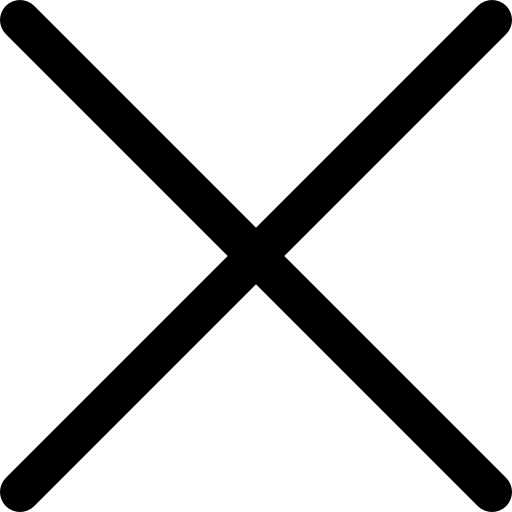
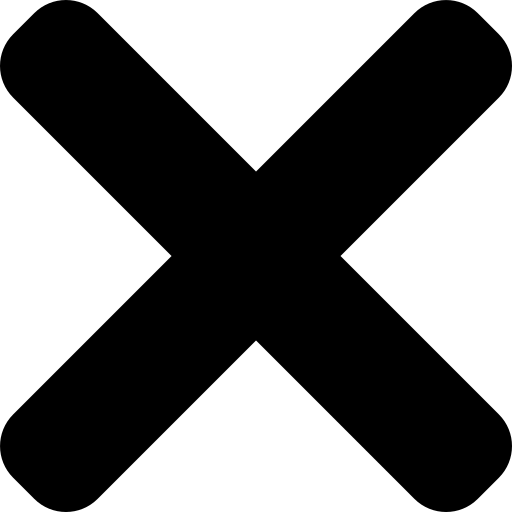
Resolved UI Issues
- Made window moveable
- Made title bar icons smaller

diff --git a/OpenBots.Agent.Client/MainWindow.xaml b/OpenBots.Agent.Client/MainWindow.xaml
@@ -5,54 +5,68 @@
         xmlns:mc="http://schemas.openxmlformats.org/markup-compatibility/2006"
         xmlns:local="clr-namespace:OpenBots.Agent.Client"
         mc:Ignorable="d"
-        Title="OpenBots Agent" Name="wndMain" Height="545" Width="488" Loaded="OnLoad" ResizeMode="NoResize" WindowStyle="None"
+        Title="OpenBots Agent" Name="wndMain" Height="530" Width="488" Loaded="OnLoad" ResizeMode="NoResize" WindowStyle="None"
         Unloaded="OnUnload" Initialized="OnInitialized" Closing="OnClosing" StateChanged="OnStateChanged" Closed="OnClosed" 
-        WindowStartupLocation="CenterScreen">
+        WindowStartupLocation="CenterScreen" BorderThickness="2" UseLayoutRounding="True">
     <Window.Resources>
+        <Style x:Key="GearImage" TargetType="{x:Type Image}">
+            <Setter Property="Source" Value="/resources/gear_gray.png"/>
+            <Setter Property="HorizontalAlignment" Value="Right"/>
+            <Setter Property="ToolTip" Value="Settings"/>
+            <Style.Triggers>
+                <Trigger Property="IsMouseOver" Value="True">
+                    <Setter Property="Source" Value="/resources/gear_black.png"/>
+                    <!--<Setter Property="BitmapEffect">
+                        <Setter.Value>
+                            <DropShadowBitmapEffect Color="LightGray" ShadowDepth="1" Direction="315" Opacity="0.4"></DropShadowBitmapEffect>
+                        </Setter.Value>
+                    </Setter>-->
+                </Trigger>
+            </Style.Triggers>
+        </Style>
         <Style x:Key="CloseImage" TargetType="{x:Type Image}">
-            <Setter Property="Source" Value="/resources/close_black.png"/>
-            <Setter Property="Height" Value="20"/>
+            <Setter Property="Source" Value="/resources/close_gray.png"/>
             <Setter Property="HorizontalAlignment" Value="Right"/>
             <Setter Property="ToolTip" Value="Minimize to System Tray"/>
             <Style.Triggers>
                 <Trigger Property="IsMouseOver" Value="True">
-                    <Setter Property="Source" Value="/resources/close_red.png"/>
-                </Trigger>
-            </Style.Triggers>
-        </Style>
-        <Style x:Key="GearImage" TargetType="{x:Type Image}">
-            <Setter Property="Source" Value="/resources/gear_hollow.png"/>
-            <Setter Property="Height" Value="25"/>
-            <Setter Property="HorizontalAlignment" Value="Right"/>
-            <Setter Property="ToolTip" Value="Setting"/>
-            <Style.Triggers>
-                <Trigger Property="IsMouseOver" Value="True">
-                    <Setter Property="Source" Value="/resources/gear_solid.png"/>
+                    <Setter Property="Source" Value="/resources/close_black.png"/>
                 </Trigger>
             </Style.Triggers>
         </Style>
     </Window.Resources>
+    <Window.BorderBrush>
+        <RadialGradientBrush>
+            <GradientStop Color="#FF020202"/>
+            <GradientStop Color="#FFD4D4D4" Offset="0.626"/>
+        </RadialGradientBrush>
+    </Window.BorderBrush>
     <Grid Name="mainGrid">
         <Grid.RowDefinitions>
-            <RowDefinition Height="37"/>
-            <RowDefinition Height="295"/>
+            <RowDefinition Height="30"/>
+            <RowDefinition Height="288"/>
             <RowDefinition Height="*"/>
         </Grid.RowDefinitions>
-        <StatusBar Name="CustomBar" Margin="5,3,5,0" Background="Transparent">
-            <Grid Name="grd_CustomMenuBar_Title" Margin="2,0,0,0">
+        <StatusBar Name="CustomBar" Margin="5,0,5,0" Background="Transparent" Grid.Row="0">
+            <Grid Name="grd_CustomMenuBar" Margin="2,0,0,0">
                 <Grid.ColumnDefinitions>
-                    <ColumnDefinition Width="25"/>
-                    <ColumnDefinition Width="150"/>
-                    <ColumnDefinition Width="295"/>
+                    <ColumnDefinition Width="420"/>
+                    <ColumnDefinition Width="*"/>
                 </Grid.ColumnDefinitions>
-                <Image Source="/resources/OpenBots.png" HorizontalAlignment="Left" Stretch="Uniform"/>
-                <Label Content="OpenBots Agent" Grid.Column="1" FontWeight="DemiBold" HorizontalAlignment="Left"/>
-                <Grid Name="grd_CustomMenuBar_Controls" Grid.Column="2" HorizontalAlignment="Right">
+                <Grid Name="grd_TitleBar" Grid.Column="0" MouseLeftButtonDown="OnMouseLeftButtonDown_TitleBar">
                     <Grid.ColumnDefinitions>
-                        <ColumnDefinition Width="40"/>
-                        <ColumnDefinition Width="25"/>
+                        <ColumnDefinition Width="20"/>
+                        <ColumnDefinition Width="*"/>
                     </Grid.ColumnDefinitions>
-                    <Image Name="img_settings" Style="{StaticResource GearImage}" Stretch="Uniform" Margin="3,0,10,0" MouseLeftButtonUp="OnClick_Settings">
+                    <Image Source="/resources/OpenBots.png" HorizontalAlignment="Left" Width="20" Height="20" Grid.Column="0"/>
+                    <Label Content="OpenBots Agent" FontSize="12" Width="400" HorizontalAlignment="Left" VerticalAlignment="Top" FontFamily="Calibri" Grid.Column="1"/>
+                </Grid>
+                <Grid Name="grd_CustomControls" HorizontalAlignment="Right" Grid.Column="1" Margin="0">
+                    <Grid.ColumnDefinitions>
+                        <ColumnDefinition Width="23"/>
+                        <ColumnDefinition Width="22"/>
+                    </Grid.ColumnDefinitions>
+                    <Image Name="img_settings" Style="{StaticResource GearImage}" RenderOptions.BitmapScalingMode="HighQuality" Height="19" MouseLeftButtonUp="OnClick_Settings" Grid.Column="0" Margin="0">
                         <Image.ContextMenu>
                             <ContextMenu>
                                 <MenuItem Header="Machine Info" Click="OnClick_MachineInfo"/>
@@ -61,11 +75,11 @@
                             </ContextMenu>
                         </Image.ContextMenu>
                     </Image>
-                    <Image Style="{StaticResource CloseImage}" Grid.Column="1" Margin="0,0,5,0" MouseLeftButtonDown="OnClick_Close" />
+                    <Image Style="{StaticResource CloseImage}" Height="15" Grid.Column="1" MouseLeftButtonDown="OnClick_Close" />
                 </Grid>
             </Grid>
         </StatusBar>
-        <GroupBox Header="Server Configuration" FontSize="14" Margin="10" BorderThickness="2,2,2,2" Grid.Row="1">
+        <GroupBox Header="Server Configuration" FontSize="14" Margin="10,5,10,10" BorderThickness="2,2,2,2" Grid.Row="1">
             <StackPanel x:Name="pnl_ServerConfiguration" Margin="0,10,0,0">
                 <Label Content="User Name" FontWeight="Bold" x:Name="lbl_Username"></Label>
                 <TextBox x:Name="txt_Username" FontSize="16" Margin="5,0,10,0" Height="29" VerticalContentAlignment="Center" TextChanged="OnTextChange_AgentUsername"/>

diff --git a/OpenBots.Agent.Client/Properties/Resources.Designer.cs b/OpenBots.Agent.Client/Properties/Resources.Designer.cs
@@ -73,9 +73,9 @@ namespace OpenBots.Agent.Client.Properties {
         /// <summary>
         ///   Looks up a localized resource of type System.Drawing.Bitmap.
         /// </summary>
-        public static System.Drawing.Bitmap close_red {
+        public static System.Drawing.Bitmap close_gray {
             get {
-                object obj = ResourceManager.GetObject("close_red", resourceCulture);
+                object obj = ResourceManager.GetObject("close_gray", resourceCulture);
                 return ((System.Drawing.Bitmap)(obj));
             }
         }
@@ -103,9 +103,9 @@ namespace OpenBots.Agent.Client.Properties {
         /// <summary>
         ///   Looks up a localized resource of type System.Drawing.Bitmap.
         /// </summary>
-        public static System.Drawing.Bitmap gear_hollow {
+        public static System.Drawing.Bitmap gear_black {
             get {
-                object obj = ResourceManager.GetObject("gear_hollow", resourceCulture);
+                object obj = ResourceManager.GetObject("gear_black", resourceCulture);
                 return ((System.Drawing.Bitmap)(obj));
             }
         }
@@ -113,9 +113,9 @@ namespace OpenBots.Agent.Client.Properties {
         /// <summary>
         ///   Looks up a localized resource of type System.Drawing.Bitmap.
         /// </summary>
-        public static System.Drawing.Bitmap gear_solid {
+        public static System.Drawing.Bitmap gear_gray {
             get {
-                object obj = ResourceManager.GetObject("gear_solid", resourceCulture);
+                object obj = ResourceManager.GetObject("gear_gray", resourceCulture);
                 return ((System.Drawing.Bitmap)(obj));
             }
         }

diff --git a/OpenBots.Agent.Client/MainWindow.xaml.cs b/OpenBots.Agent.Client/MainWindow.xaml.cs
@@ -123,6 +123,11 @@ namespace OpenBots.Agent.Client
             {
             }
         }
+        private void OnMouseLeftButtonDown_TitleBar(object sender, System.Windows.Input.MouseButtonEventArgs e)
+        {
+            base.OnMouseLeftButtonDown(e);
+            this.DragMove();
+        }
         private void LoadConnectionSettings()
         {
             // Load settings from "OpenBots.Settings" (Config File)
@@ -730,6 +735,7 @@ namespace OpenBots.Agent.Client
         {
             this.Close();
         }
+
         #endregion
     }
 }
